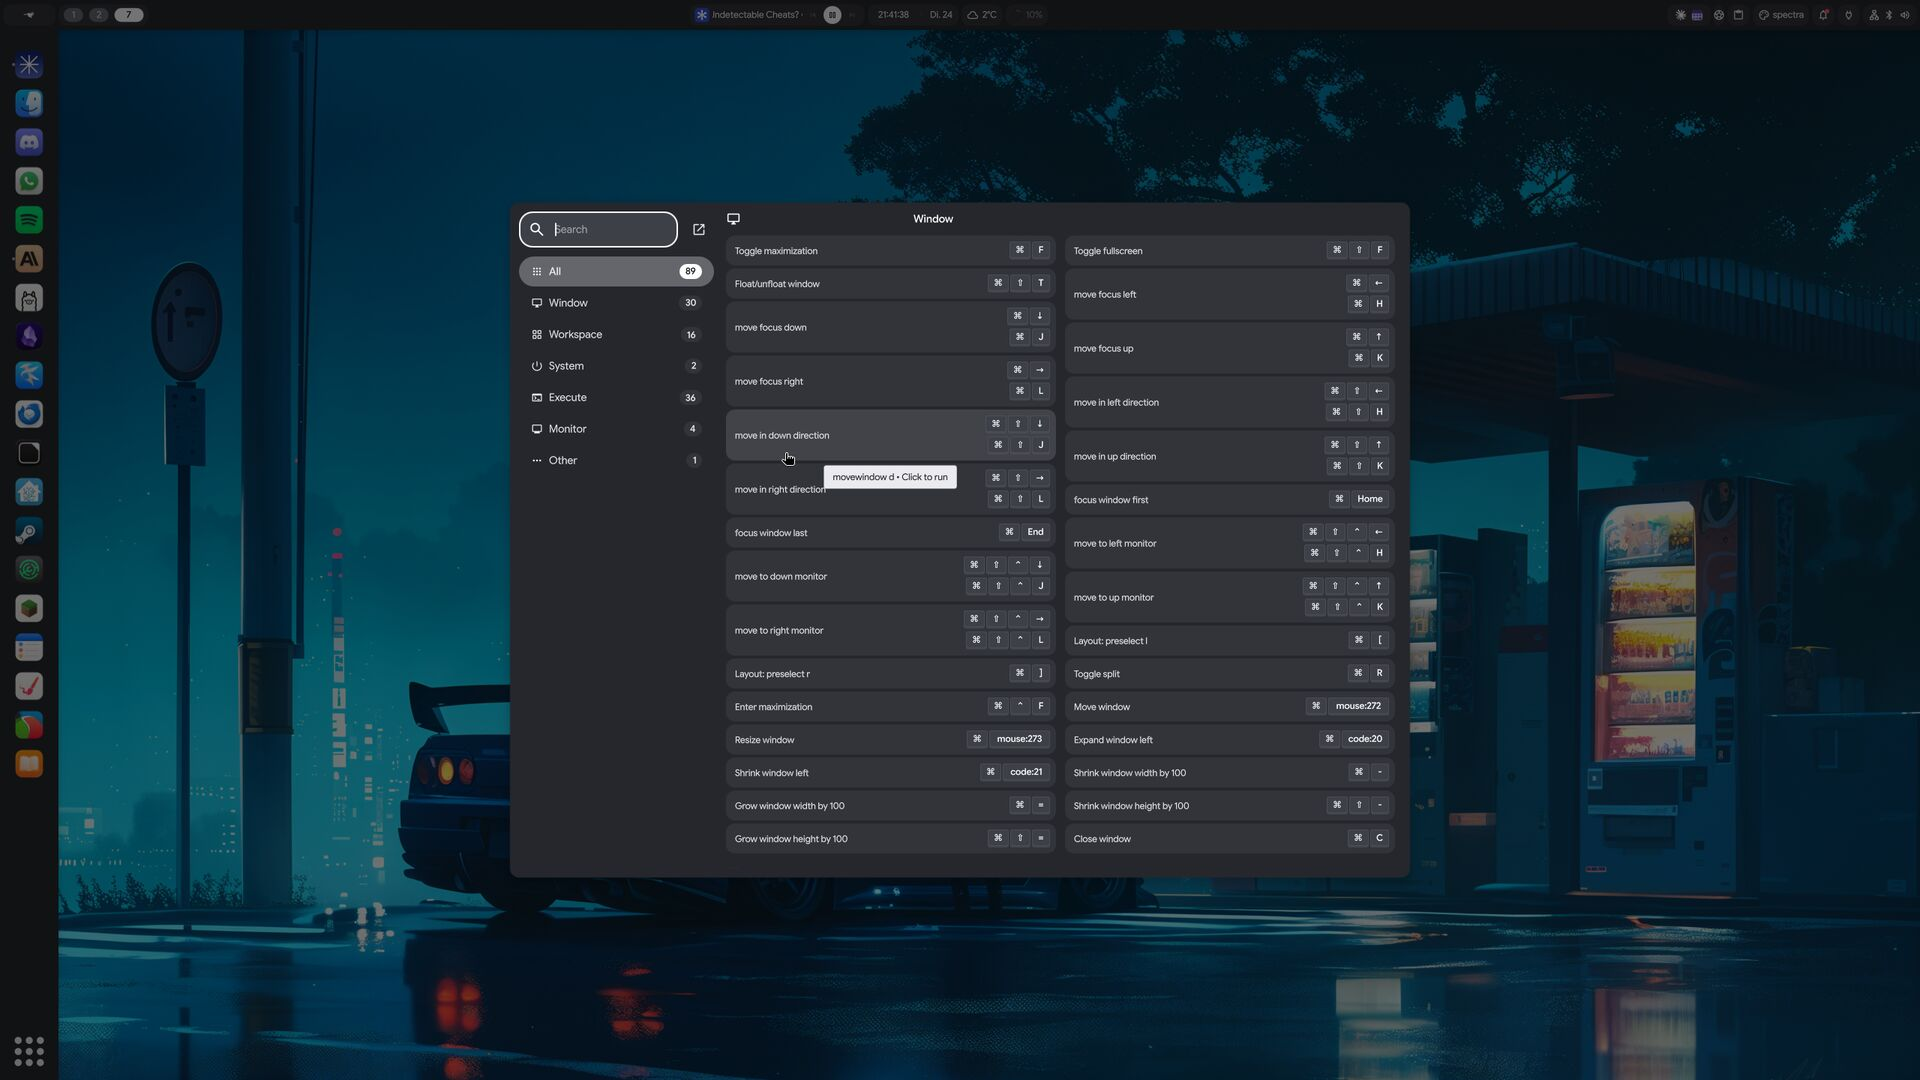
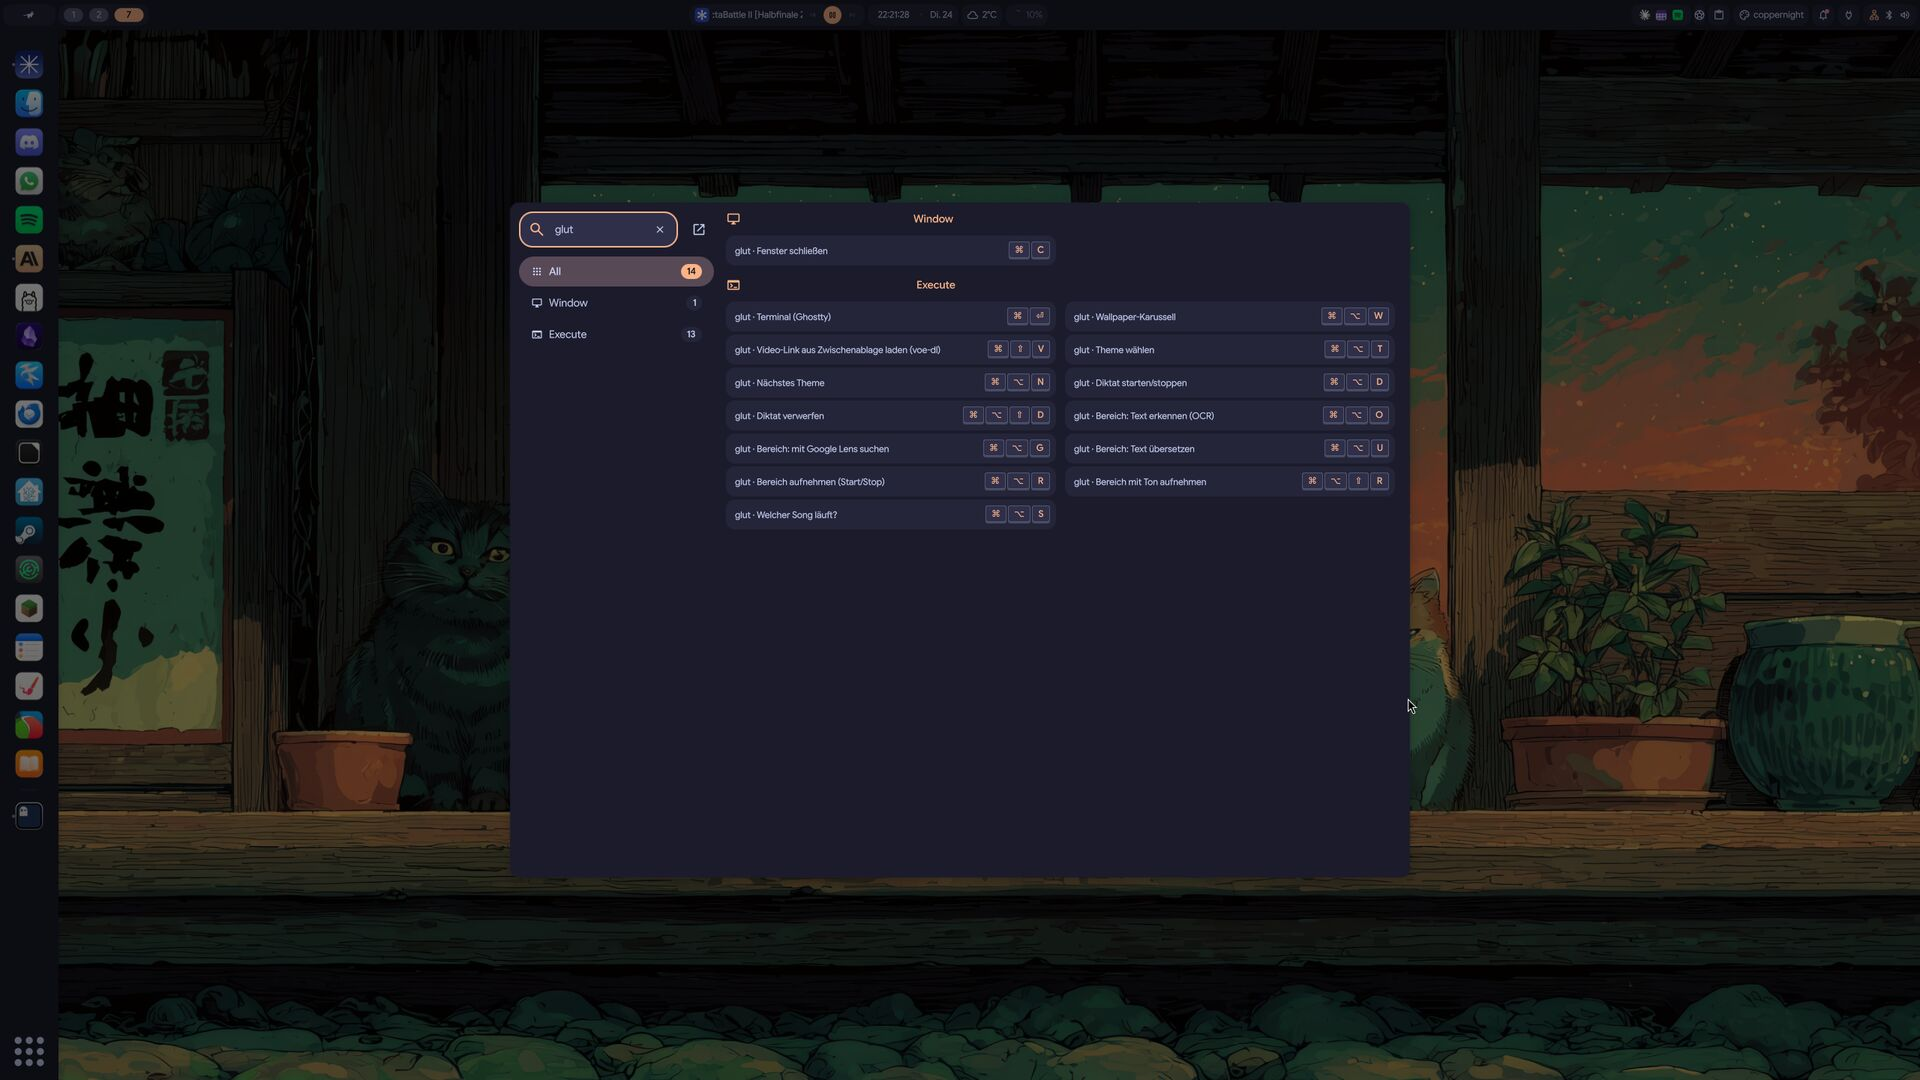
Hotkeys: einheitliche Beschreibungen mit Praefix 'glut ·'
Alle eigenen Hotkeys haben jetzt deutsche Beschreibungen mit 'glut ·',
so zeigt die DMS-Uebersicht (SUPER+SHIFT+/) mit der Suche 'glut' genau
die Hotkeys dieses Setups. Terminal und Wallpaper-Karussell zeigten
vorher nur den rohen Befehl. README-Bild und Texte angepasst.

diff --git a/README.md b/README.md
@@ -72,7 +72,7 @@
   </tr>
   <tr>
     <td><b>Control center.</b> Brightness, volume, network, Bluetooth, audio devices, night mode, power profile, disk usage.</td>
-    <td><b>Every keybind, searchable.</b> <code>SUPER + SHIFT + /</code> lists all binds by category. Click one to run it.</td>
+    <td><b>Every keybind, searchable.</b> <code>SUPER + SHIFT + /</code> lists all binds by category; type <code>glut</code> to see only the ones this setup adds. Click one to run it.</td>
   </tr>
   <tr>
     <td><img width="100%" alt="Desktop context menu" src=".github/assets/feat-contextmenu.jpg" /></td>
@@ -121,7 +121,7 @@ Reboot, pick Hyprland on the login screen, done. Re-running `install.sh` is safe
 
 ## Keybinds
 
-Keyboard first. `SUPER + SHIFT + /` shows every bind on screen.
+Keyboard first. `SUPER + SHIFT + /` shows every bind on screen; type `glut` there to filter to the custom ones below.
 
 | Keys | Action |
 | :--- | :--- |
